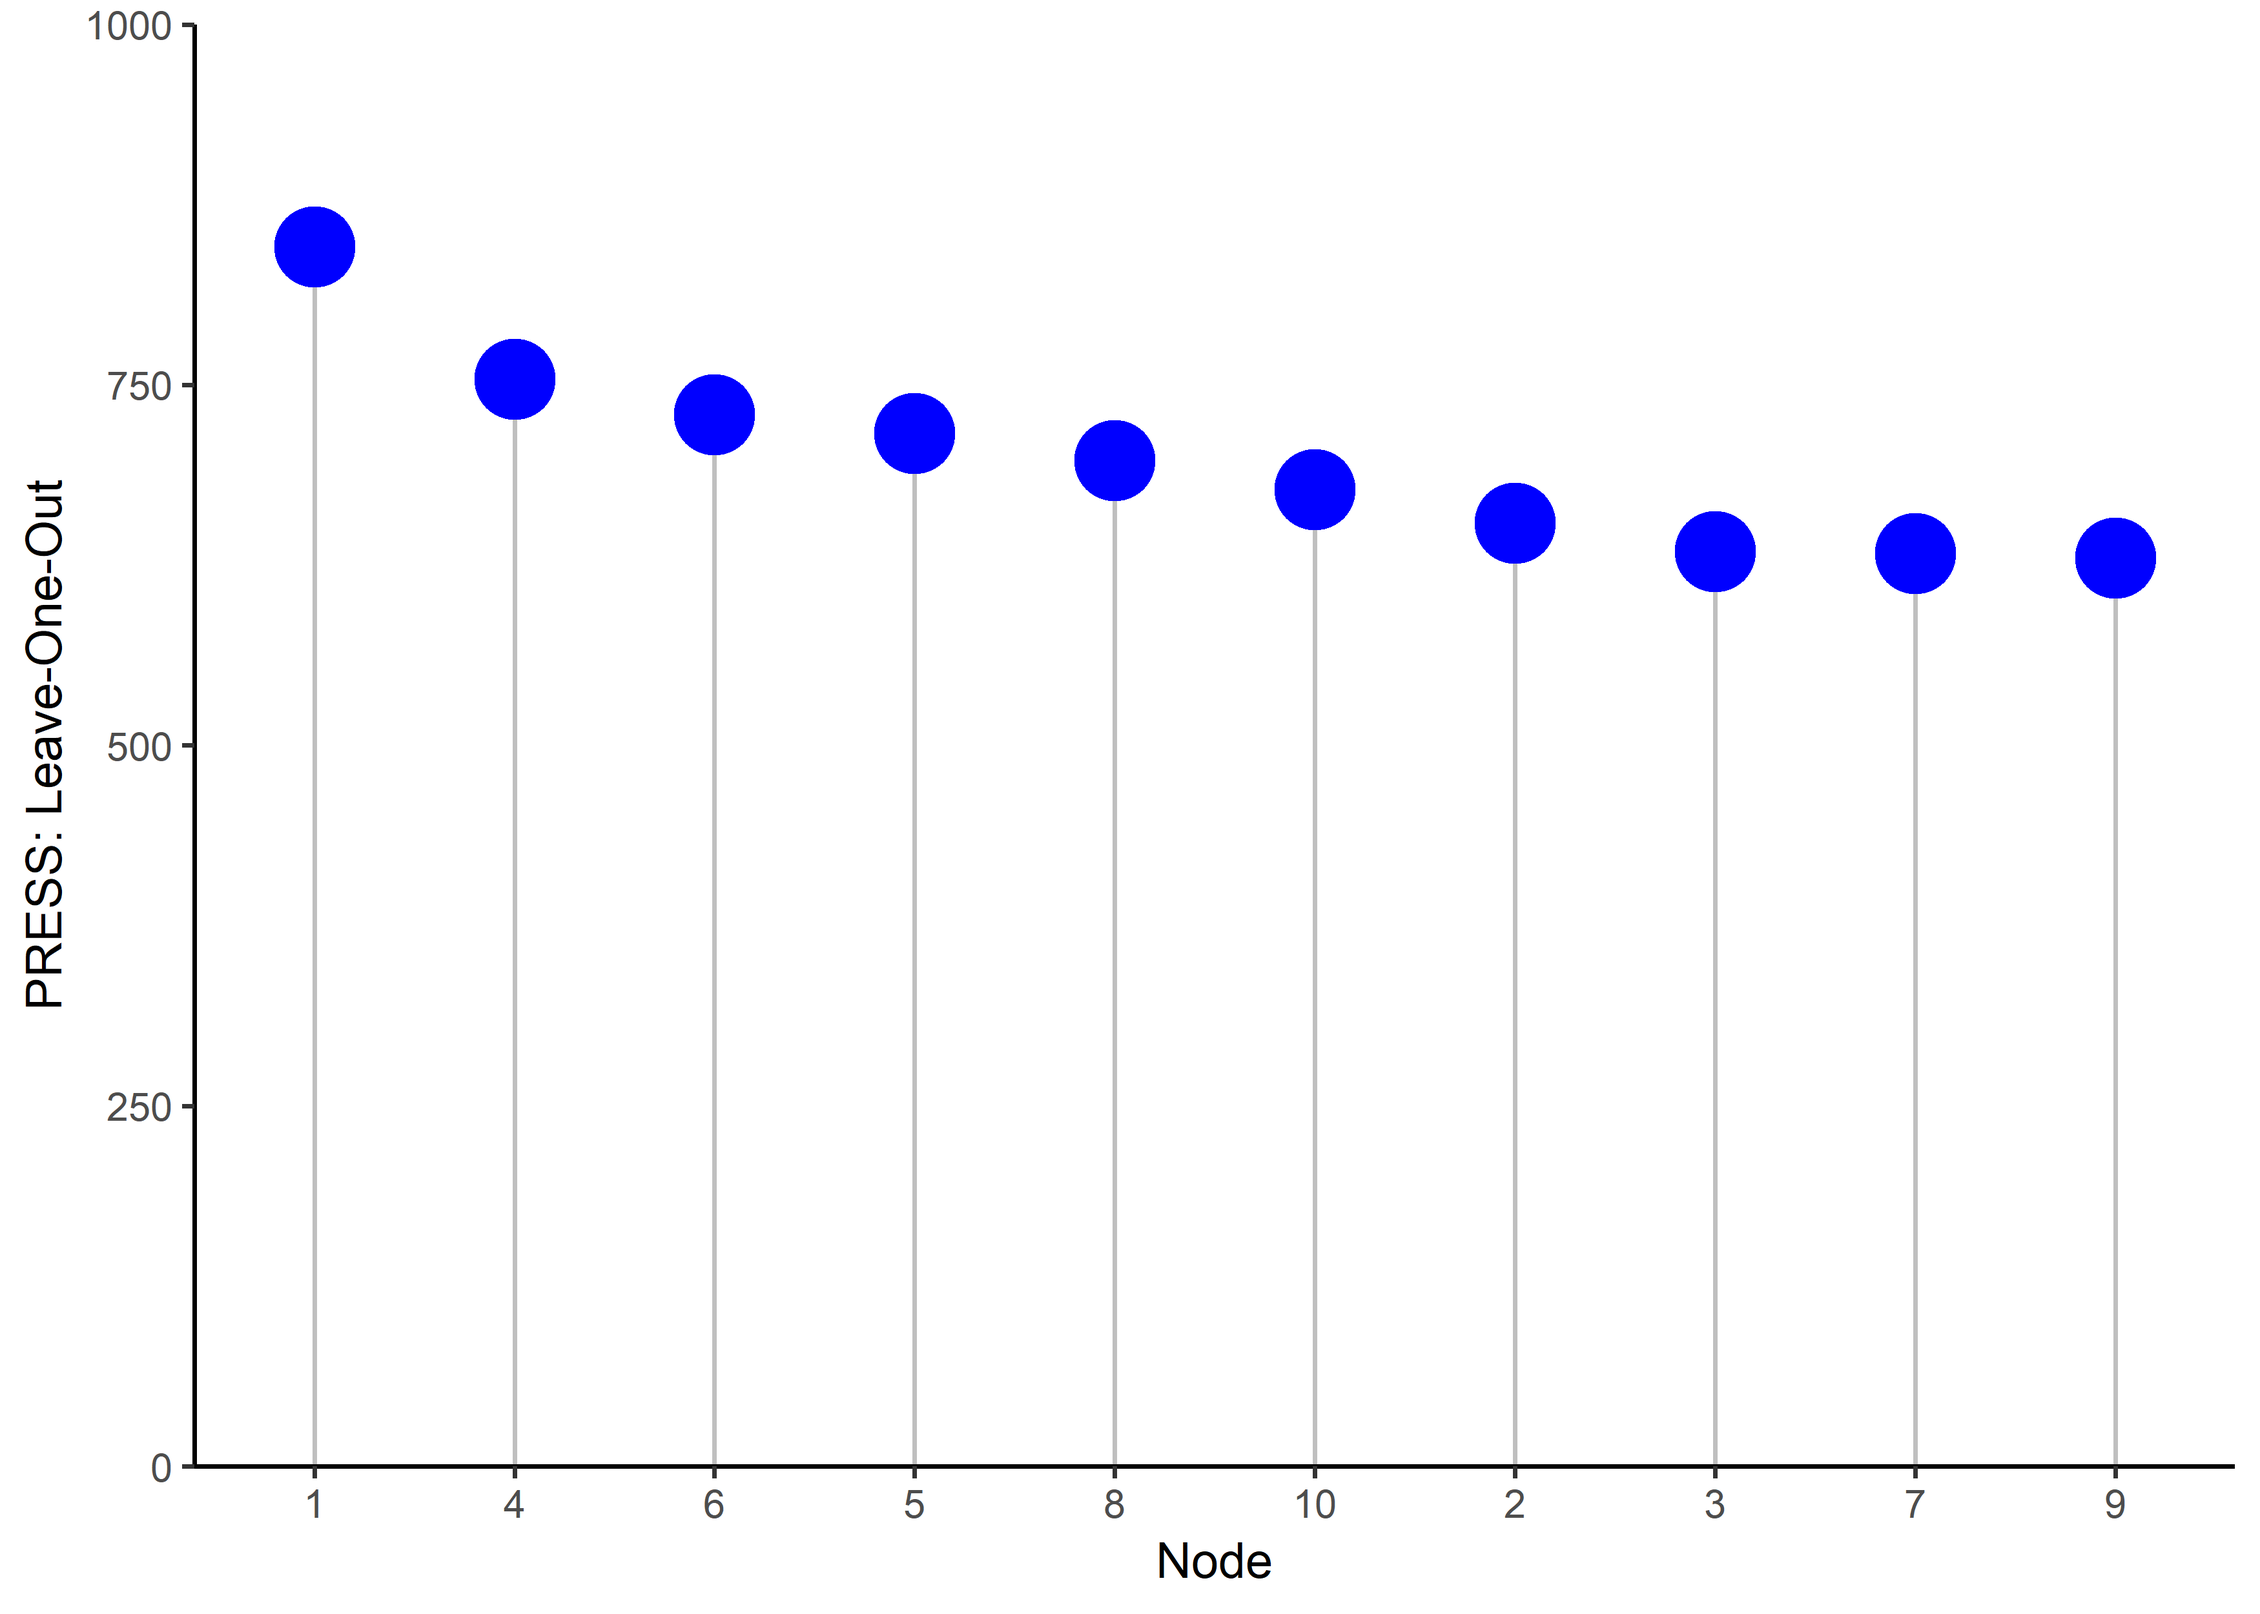
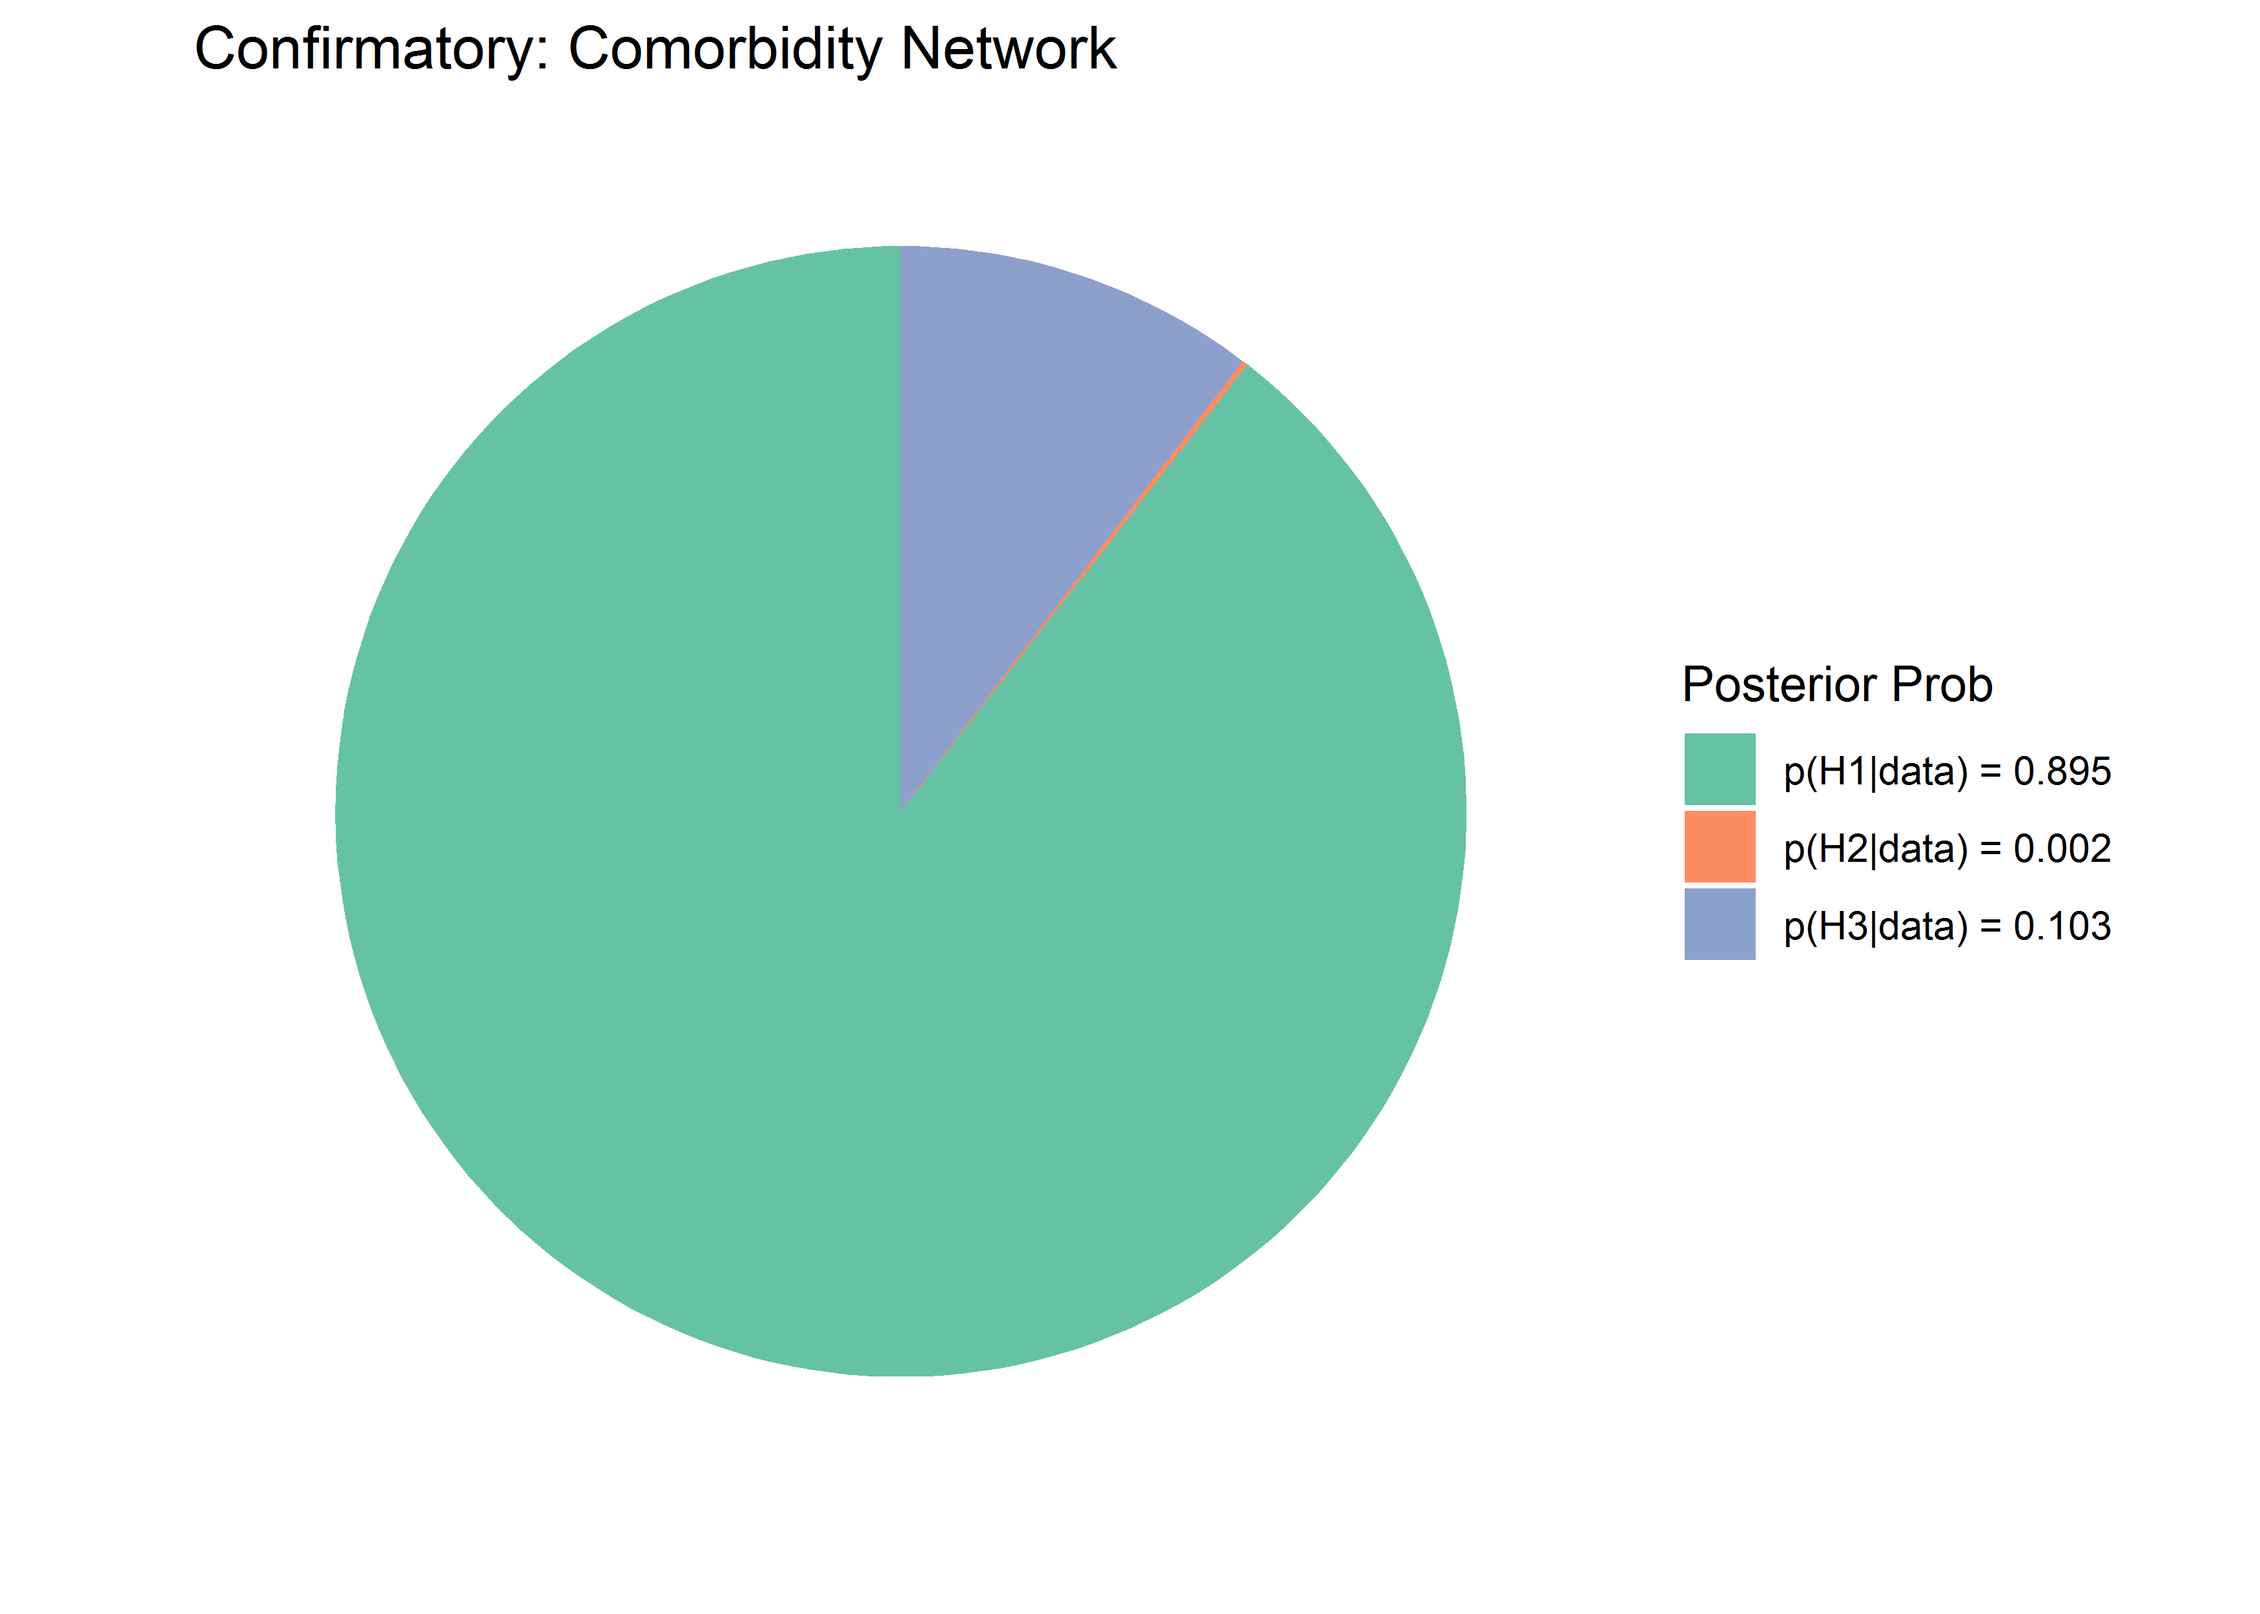
change figure location

diff --git a/README.md b/README.md
@@ -221,7 +221,7 @@ plot(select(fit),
 #> $plt
 ```
 
-<img src="joss_paperunnamed-chunk-9-1.png" width="65%" style="display: block; margin: auto;" />
+<img src="man/figures/README-unnamed-chunk-9-1.png" width="65%" style="display: block; margin: auto;" />
 
 This basic “workflow” can be used with all methods and data types. A
 more involved network plot is provided below.
@@ -380,7 +380,7 @@ plot(fit) +
   ggtitle("Confirmatory: Comorbidity Network")
 ```
 
-<img src="joss_paperunnamed-chunk-18-1.png" width="65%" style="display: block; margin: auto;" />
+<img src="man/figures/README-unnamed-chunk-18-1.png" width="65%" style="display: block; margin: auto;" />
 
 This demonstrates that all the `plot()` functions in **BGGM** return
 `ggplot` objects that can be futher customized. Note that **BGGM** is
@@ -463,7 +463,7 @@ plot(fit,
      critical = 0.05)$plot_jsd
 ```
 
-<img src="joss_paperunnamed-chunk-23-1.png" width="65%" style="display: block; margin: auto;" />
+<img src="man/figures/README-unnamed-chunk-23-1.png" width="65%" style="display: block; margin: auto;" />
 
 where the red region is the “critical” area and the black point is the
 observed KL divergence for the networks. This again shows that the
@@ -549,11 +549,11 @@ fit
 #> ---
 ```
 
-In this case, the *p*-value is 0.556 which does not indicate that the
-groups are different for this test-statistic. This may seem
-contradictory to the previous results, but it is important to note that
-Hamming distance asks a much different question related to the adjacency
-matrices (no other information, such as edge weigths, is considered).
+In this case, the *p*-value does not indicate that the groups are
+different for this test-statistic. This may seem contradictory to the
+previous results, but it is important to note that Hamming distance asks
+a much different question related to the adjacency matrices (no other
+information, such as edge weigths, is considered).
 
 #### Exploratory (groups)
 
@@ -613,7 +613,7 @@ plot(E,
                      palette = "Set2")
 ```
 
-<img src="joss_paperunnamed-chunk-32-1.png" width="65%" style="display: block; margin: auto;" />
+<img src="man/figures/README-unnamed-chunk-32-1.png" width="65%" style="display: block; margin: auto;" />
 
 Note that `layout` can be changed to any option provided in the `R`
 package **sna** (Butts 2019).
